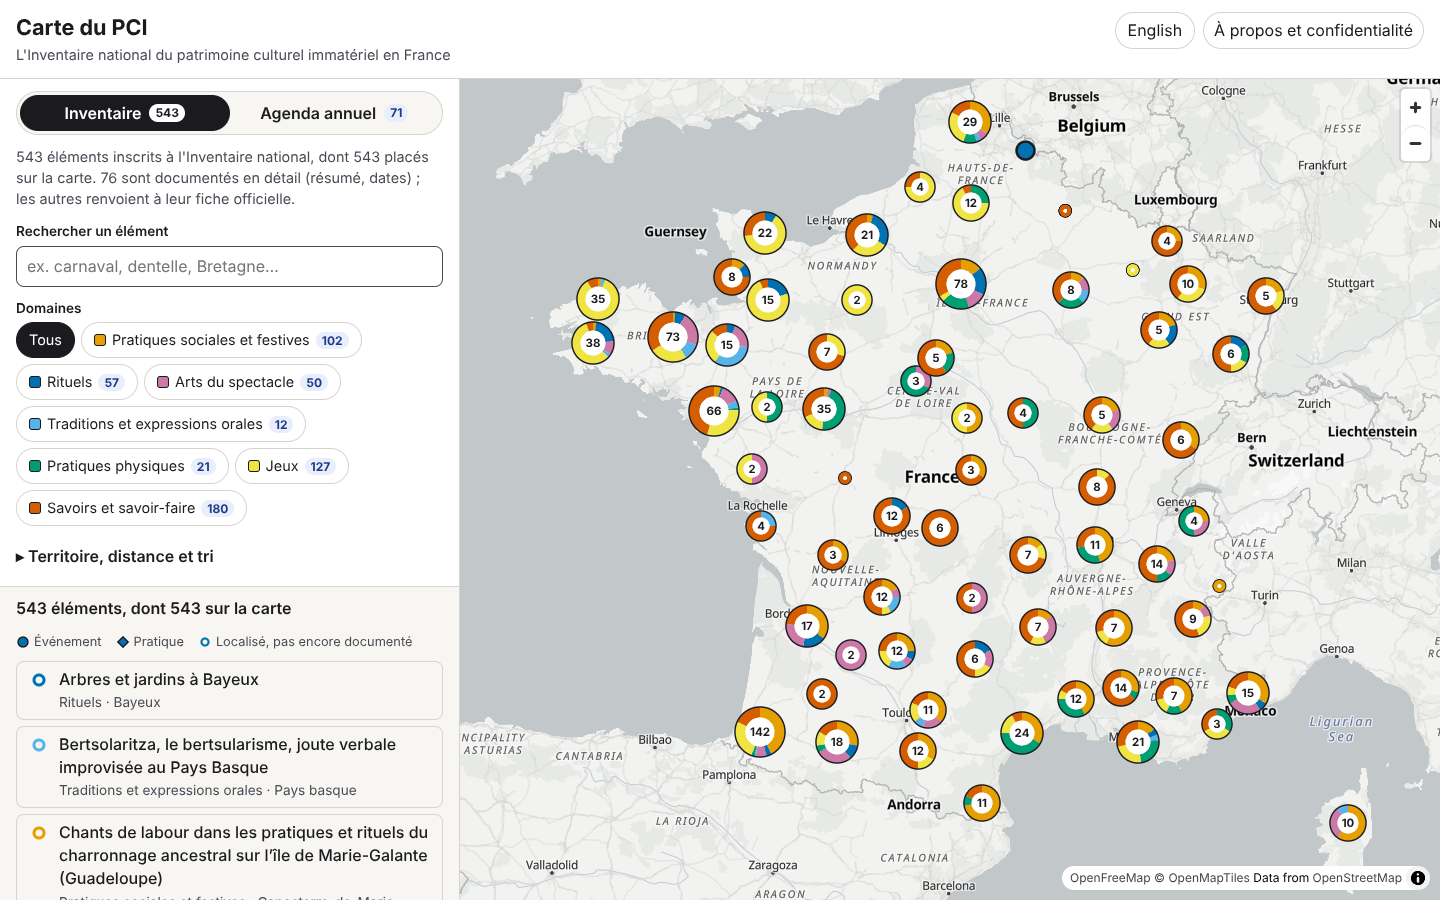
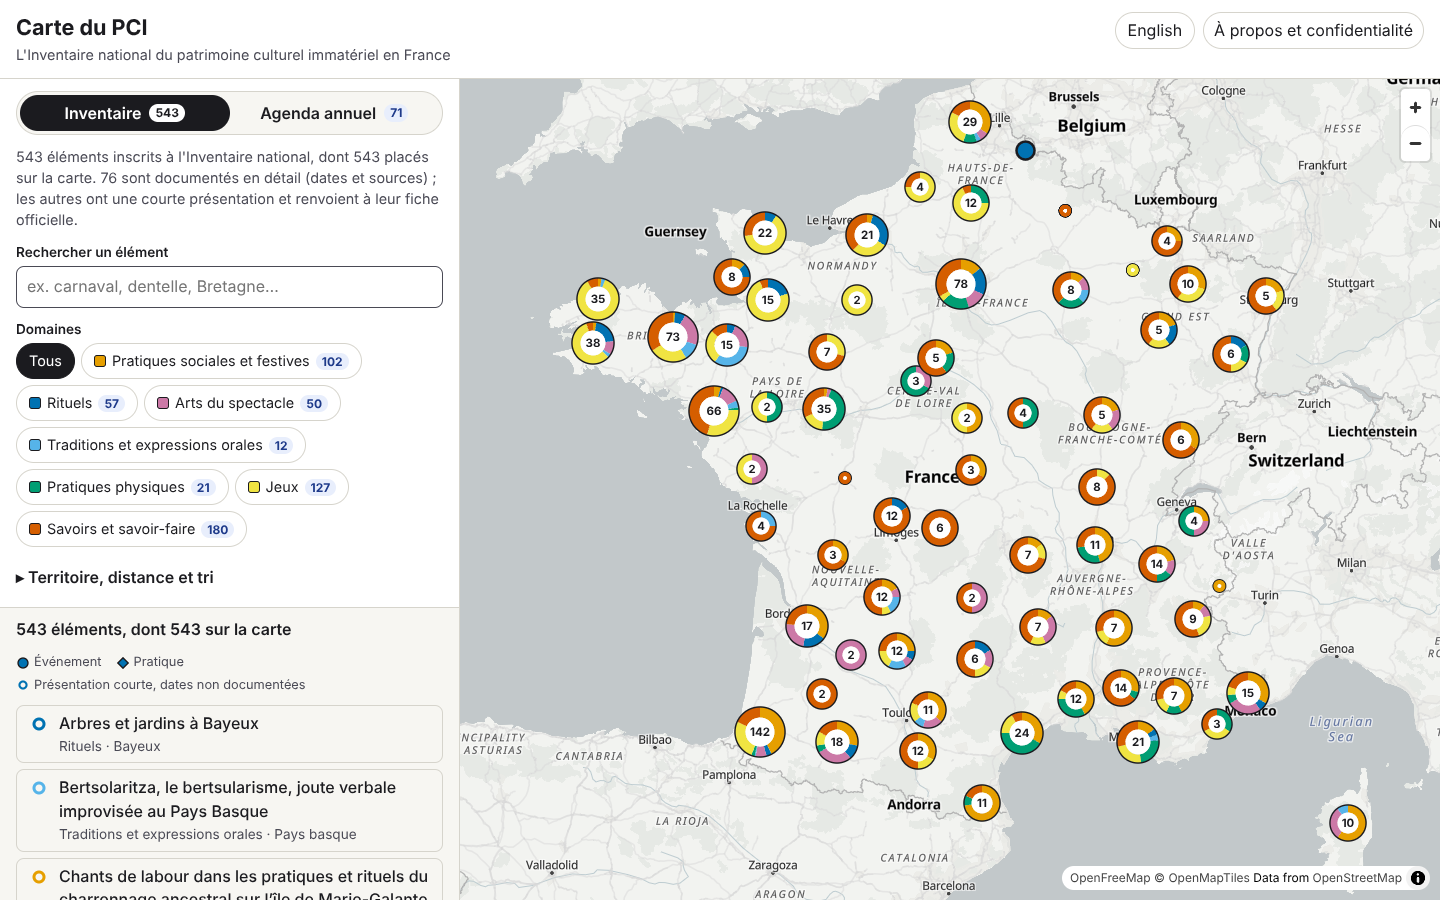
Draft portfolio case study (M8); refresh screenshots and intro wording
Every element now has a short description, so the intro, legend and About
note say so.

Claude-Session: https://claude.ai/code/session_01AqnAMrBoKunjqUn9FTHm4o

Changed region(s): [[0.0, 0.1867, 0.3125, 1.0], [0.25, 0.6844, 0.2812, 0.7156]]

diff --git a/web/src/i18n/fr.ts b/web/src/i18n/fr.ts
@@ -5,7 +5,7 @@ export const fr = {
   viewInventory: "Inventaire",
   viewAgenda: "Agenda annuel",
   coverage: (total: number, located: number, documented: number) =>
-    `${total} éléments inscrits à l'Inventaire national, dont ${located} placés sur la carte. ${documented} sont documentés en détail (résumé, dates) ; les autres renvoient à leur fiche officielle.`,
+    `${total} éléments inscrits à l'Inventaire national, dont ${located} placés sur la carte. ${documented} sont documentés en détail (dates et sources) ; les autres ont une courte présentation et renvoient à leur fiche officielle.`,
   agendaIntro: (n: number) =>
     `Seule une partie de l'Inventaire est datable : voici les ${n} rendez-vous annuels documentés à ce jour.`,
   search: "Rechercher un élément",
@@ -41,7 +41,7 @@ export const fr = {
   legend: "Légende",
   documented: "Documenté",
   moreFilters: "Territoire, distance et tri",
-  notDocumentedShort: "Localisé, pas encore documenté",
+  notDocumentedShort: "Présentation courte, dates non documentées",
   movableShort: "Fête mobile",
   resultsCount: (n: number, mapped: number) =>
     n === 0 ? "Aucun élément" : `${n} élément${n > 1 ? "s" : ""}, dont ${mapped} sur la carte`,
@@ -125,7 +125,7 @@ export const fr = {
   about: "À propos et confidentialité",
   aboutText:
     "Données : Inventaire national du patrimoine culturel immatériel, ministère de la Culture ; lieux d'après PCI Lab (ministère de la Culture et CIRDOC) et des sources en ligne ; photos Wikimedia Commons ou images des fiches. Résumés rédigés pour ce site. Aucun cookie, aucune mesure d'audience, aucun traceur. Les fonds de carte (OpenFreeMap) et les images (Wikimedia, PCI Lab) sont chargés depuis leurs serveurs, qui voient l'adresse IP des visiteurs, comme tout serveur web.",
-  pilotNote: "Projet en cours : chaque élément est placé sur la carte ; une partie seulement est documentée en détail.",
+  pilotNote: "Projet en cours : chaque élément est placé sur la carte et brièvement présenté ; une partie seulement est documentée en détail (dates et sources). Les textes sont des brouillons en cours de relecture.",
   ficheNotRead:
     "Résumé et calendrier établis à partir de sources en ligne : la fiche officielle n'a pas pu être consultée.",
   ruleEveryN: (n: number) => `Tous les ${n} ans`,

diff --git a/web/src/i18n/en.ts b/web/src/i18n/en.ts
@@ -7,7 +7,7 @@ export const en: Strings = {
   viewInventory: "Inventory",
   viewAgenda: "Yearly events",
   coverage: (total: number, located: number, documented: number) =>
-    `${total} elements are listed in the national inventory; ${located} are placed on the map. ${documented} are documented in detail (summary, dates); the others link to their official fiche.`,
+    `${total} elements are listed in the national inventory; ${located} are placed on the map. ${documented} are documented in detail (dates and sources); the others have a short description and link to their official fiche.`,
   agendaIntro: (n: number) =>
     `Only part of the inventory has dates: these are the ${n} yearly events documented so far.`,
   search: "Search the inventory",
@@ -43,7 +43,7 @@ export const en: Strings = {
   legend: "Key",
   documented: "Documented",
   moreFilters: "Area, distance and sorting",
-  notDocumentedShort: "Located, not documented yet",
+  notDocumentedShort: "Short description, dates not documented",
   movableShort: "Movable feast",
   resultsCount: (n: number, mapped: number) =>
     n === 0 ? "No elements" : `${n} element${n === 1 ? "" : "s"}, ${mapped} on the map`,
@@ -126,7 +126,7 @@ export const en: Strings = {
   about: "About and privacy",
   aboutText:
     "Data: national inventory of intangible cultural heritage, French Ministry of Culture; places from PCI Lab (Ministry of Culture and CIRDOC) and online sources; photos from Wikimedia Commons or the inventory fiches. Summaries written for this site. No cookies, no analytics, no trackers. Map tiles (OpenFreeMap) and images (Wikimedia, PCI Lab) load from their servers, which see visitors' IP addresses, like any web server.",
-  pilotNote: "Work in progress: every element is placed on the map; only some are documented in detail.",
+  pilotNote: "Work in progress: every element is placed on the map and briefly described; only some are documented in detail (dates and sources). Texts are drafts under review.",
   ficheNotRead: "Summary and timing based on online sources: the official fiche could not be consulted.",
   ruleEveryN: (n: number) => `Every ${n} years`,
   announcedDates: "No fixed rule: dates announced by the organisers for each edition",

diff --git a/docs/portfolio.md b/docs/portfolio.md
@@ -1,0 +1,75 @@
+# PCI Map: case study (draft)
+
+> Draft for Paul to rewrite in his own voice before publishing. Facts and numbers are from the repository on 2026-10-09; anything marked *[Paul]* needs his input.
+
+## English
+
+### In one sentence
+
+An interactive, bilingual map of France's national inventory of intangible cultural heritage that puts all 543 published elements where they live, says when the yearly ones happen, and turns each documented element into a printable mediation sheet.
+
+Live site: <https://paulbenard01.github.io/Mapatrimoine/> · Code and data: <https://github.com/paulbenard01/Mapatrimoine>
+
+### The problem
+
+The Ministère de la Culture's *Inventaire national du patrimoine culturel immatériel* is rich but hard to use for the public: a long web page of titles grouped by theme, each linking to a PDF fiche of 20 to 50 pages. Nothing says where a practice lives on a map, and the fiches have no date field, so "when can I see it?" is buried in prose (often as a movable feast such as Good Friday). As a cultural mediator I wanted a tool that answers three visitor questions: *what is around me, when does it happen, and how do I talk about it with a group?*
+
+### What I built
+
+- **The whole inventory on a map**: 543 elements, 1,029 pins (several when a practice spans several towns), donut-chart clusters showing the mix of themes, and a list view that is a full alternative to the map (keyboard-operable, screen-reader announced).
+- **Every element described**: 76 elements documented in detail from their fiche, and a short own-words summary in French and English for the other 467, all searchable in both languages; 530 with a credited picture.
+- **Yearly events with evidence**: 71 events with a computed next occurrence, including 15 movable feasts calculated from Easter, a 12-month strip and a "this month" filter. Each date shows its evidence: a quote of at most 25 words from the fiche with its page, the organiser pages checked online, and a confidence level.
+- **Announced dates**: a daily build matches DATAtourisme's open listing of about 80,000 tourist-office events to the documented events, so a visitor sees, for example, the 2027 dates of each band's outing at the Limoux carnival.
+- **Mediation sheets**: for each documented element, a printable A4 sheet in French and English side by side: summary, picture, places, dates, three discussion questions and five vocabulary terms.
+- **Near me without tracking**: distance is computed on the device; no cookies, analytics or API keys.
+
+### How I worked
+
+- **Sources first.** The inventory page, the official list, the fiches, PCI Lab (the ministry and CIRDOC's online edition of the inventory), the government geo API and DATAtourisme are all public; each is cited on the site, and every non-trivial choice is logged with the alternative I rejected (`docs/decisions.md`).
+- **Data ethics as rules, enforced by tests.** Fiches name community members and give their contacts: the repository never stores fiche text, and a CI test fails if any committed file contains an email or phone pattern. Fiches unpublished at the bearers' request are excluded. Summaries never name private individuals or workshops. Photos showing an identifiable child are not used.
+- **Honesty about uncertainty.** Dates carry a confidence level and the inventory's own caveat ("typical timing; confirm with the organisers"); approximate places are labelled as such; every English text and every sheet is marked as a draft until I review it, and a generated checklist (`docs/review.md`) tracks what is reviewed.
+- **Small, tested code.** A Python pipeline (scraping politely at one request per second with a cache, validation against JSON Schemas) and a TypeScript site (Vite, MapLibre). All date logic lives in one tested module. There are 74 pipeline tests and 60 front-end tests, CI on every push, and automatic deployment to GitHub Pages.
+
+### What I learned *[Paul]*
+
+- *e.g. what reading 70+ fiches taught me about how communities describe their own heritage.*
+- *e.g. the gap between an inventory written for safeguarding and the questions visitors ask.*
+- *e.g. trade-offs between completeness and verified precision (short summaries vs. curated records).*
+
+### What's next
+
+- Review the drafts (English texts, mediation sheets, kinds of borderline elements).
+- Curate timing for the 42 events that only have a short summary.
+- Test the mediation sheets with a real group *[Paul: school, association, museum?]* and adapt the questions by audience.
+- Thematic routes, a calendar export (.ics) and an open-data export of the structured facts.
+
+### How it was made
+
+Designed, directed and reviewed by Paul Benard. Code, data curation and drafts were produced with Claude Code (Anthropic) as an assistant, under the rules above. *[Paul: adjust to how you want to present this.]*
+
+## Français
+
+### En une phrase
+
+Une carte interactive et bilingue de l'Inventaire national du patrimoine culturel immatériel qui situe les 543 éléments publiés, indique quand ont lieu les événements annuels et fait de chaque élément documenté une fiche de médiation imprimable.
+
+### Le problème
+
+L'Inventaire du ministère de la Culture est riche mais difficile d'accès pour le public : une longue page de titres classés par domaine, chacun renvoyant à une fiche PDF de 20 à 50 pages. Rien ne situe les pratiques sur une carte, et les fiches n'ont pas de champ de date : « quand puis-je y assister ? » est noyé dans le texte, souvent sous la forme d'une fête mobile comme le Vendredi saint. Comme médiateur, je voulais un outil qui réponde à trois questions de visiteur : *qu'y a-t-il autour de moi, quand cela a-t-il lieu, et comment en parler avec un groupe ?*
+
+### Ce que j'ai réalisé
+
+- **Tout l'Inventaire sur une carte** : 543 éléments, 1 029 points (plusieurs quand une pratique s'étend sur plusieurs communes), des regroupements en anneaux qui montrent les domaines présents, et une liste qui remplace entièrement la carte (utilisable au clavier, annoncée aux lecteurs d'écran).
+- **Chaque élément décrit** : 76 éléments documentés en détail d'après leur fiche, et un court résumé rédigé par mes soins en français et en anglais pour les 467 autres, consultable par recherche dans les deux langues. 530 éléments sont illustrés, avec crédits.
+- **Événements annuels sourcés** : 71 événements avec leur prochaine date calculée, dont 15 fêtes mobiles calculées depuis Pâques, une frise des 12 mois et un filtre « ce mois-ci ». Chaque date affiche ses sources : une citation de 25 mots au plus tirée de la fiche avec sa page, les pages d'organisateurs consultées et un niveau de fiabilité.
+- **Dates annoncées** : chaque jour, la construction du site rapproche des événements documentés les quelque 80 000 manifestations publiées par les offices de tourisme dans DATAtourisme (données ouvertes).
+- **Fiches de médiation** : pour chaque élément documenté, une fiche A4 imprimable, français et anglais côte à côte, avec résumé, image, lieux, dates, trois questions pour en parler et cinq mots de vocabulaire.
+- **« Autour de moi » sans pistage** : la distance est calculée sur l'appareil ; ni cookie, ni mesure d'audience, ni clé d'API.
+
+### Méthode
+
+Sources publiques citées et choix consignés (`docs/decisions.md`). Les règles d'éthique des données sont vérifiées par des tests : aucun texte de fiche ni donnée personnelle n'est publié, les fiches dépubliées à la demande des porteurs sont exclues. L'incertitude est affichée : niveau de fiabilité des dates, lieux approximatifs signalés, brouillons marqués jusqu'à relecture. Le code est sobre et testé, avec intégration continue et déploiement automatique.
+
+### Suite
+
+Relire les brouillons, documenter les dates des 42 événements qui n'ont qu'un résumé court, tester les fiches de médiation avec un groupe réel, puis proposer des parcours thématiques, un export calendrier et un export des données structurées.

diff --git a/CLAUDE.md b/CLAUDE.md
@@ -34,6 +34,7 @@ web/                      Vite + TypeScript + MapLibre site; web/public/data/{el
   src/i18n/{fr,en}.ts     every UI string; src/main.ts rendering; src/map.ts MapLibre
   src/sheet.ts            printable bilingual mediation sheet (`?id=<id>&sheet=1`)
 docs/decisions.md         decision log (decision, why, alternative rejected)
+docs/portfolio.md         portfolio case study draft (M8)
 docs/review.md            generated by `pci review`: coverage and review checklist (a test keeps it current)
 docs/screenshots/         Playwright screenshots
 ```

diff --git a/PLAN.md b/PLAN.md
@@ -23,4 +23,4 @@ Milestones for PCI Map. Tick a box only when its "done when" criterion is met an
   - [x] short summary tier (`data/summaries.yaml`) for the elements not curated yet, shown and searchable on the site
   - [ ] timing and evidence for the events among them (promote to `data/curated`)
   - [ ] Paul's review of drafts
-- [ ] **M8 portfolio write-up**.
+- [ ] **M8 portfolio write-up**: draft case study (EN/FR) in `docs/portfolio.md`; Paul to rewrite in his own voice and fill the *[Paul]* parts.
